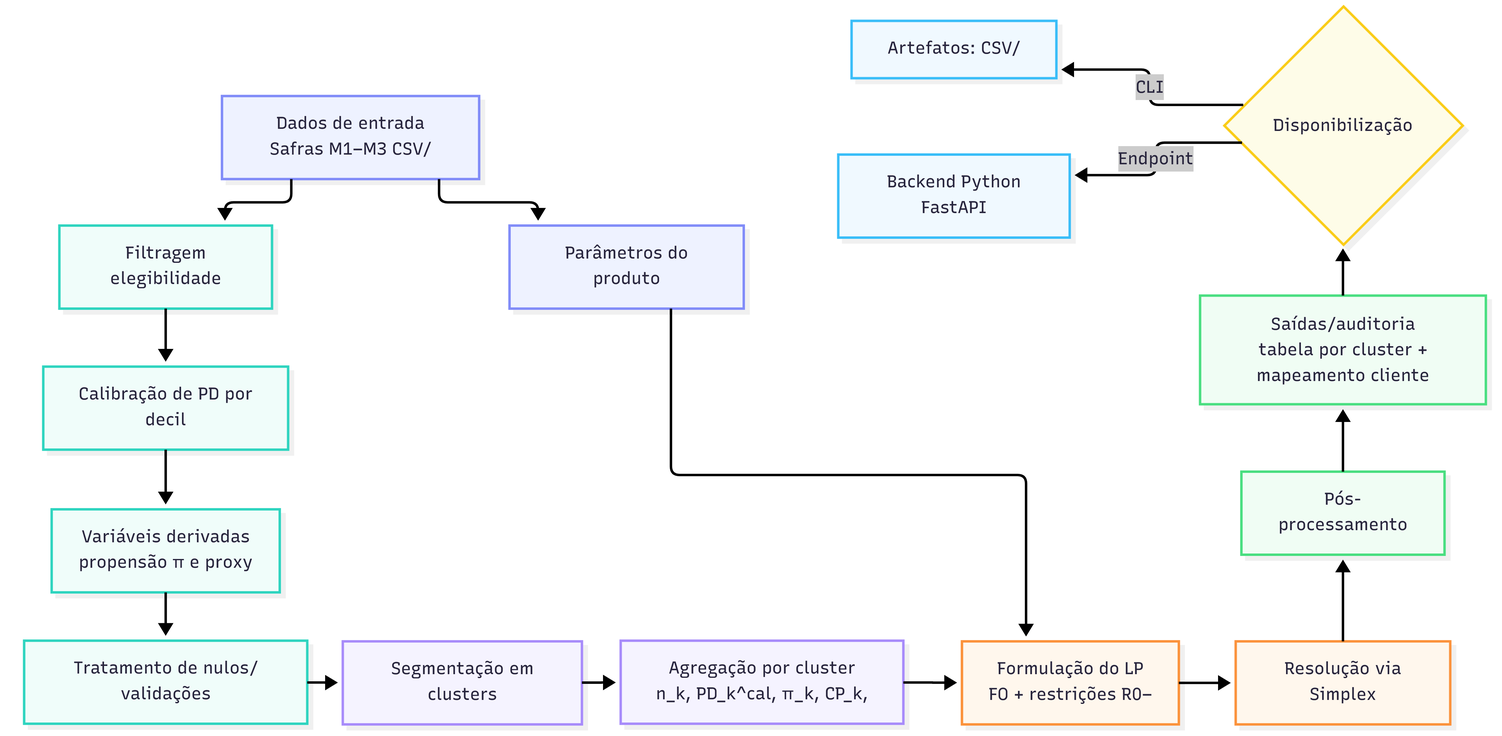
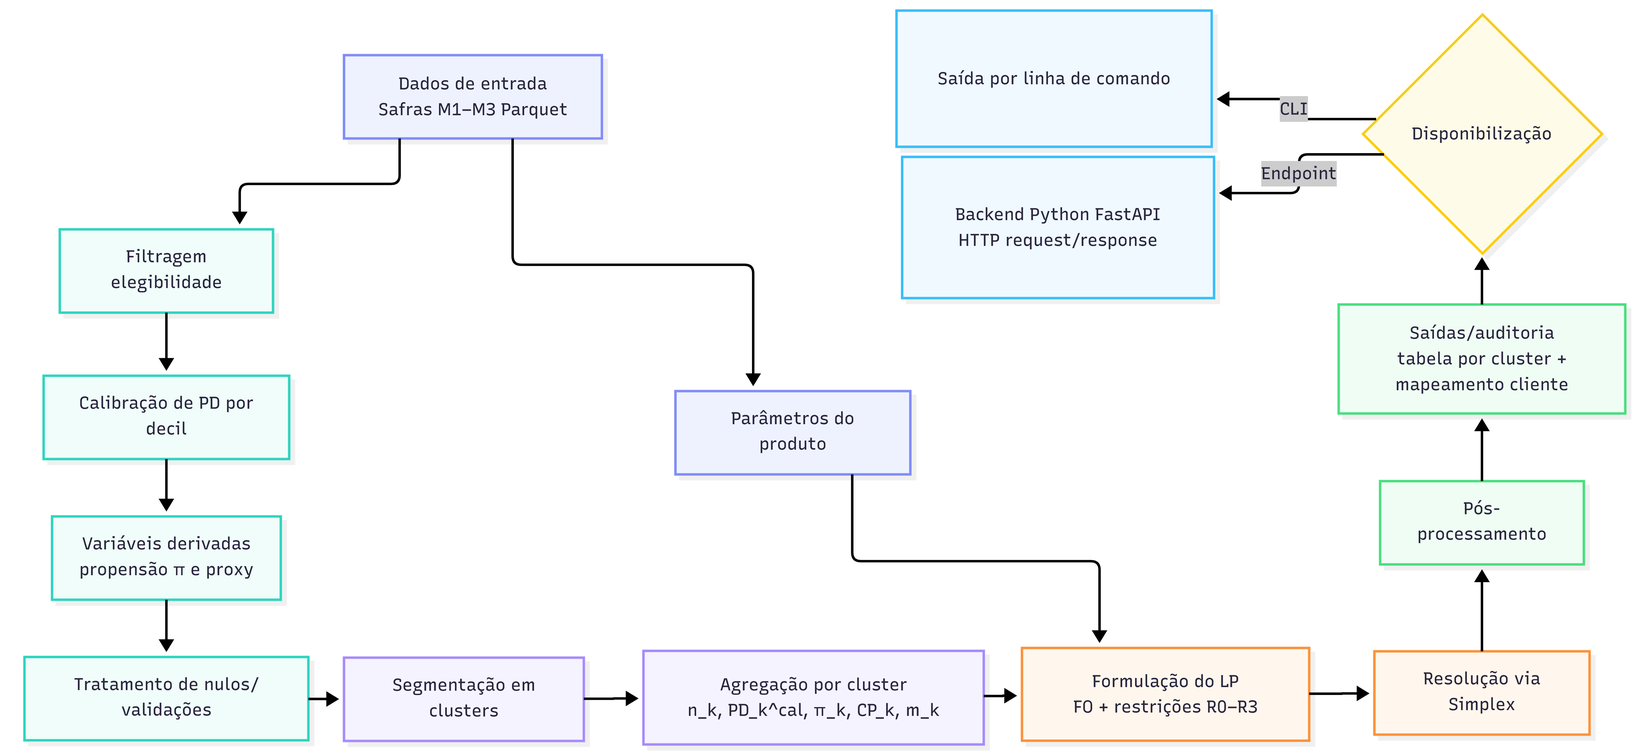
docs: article corrections

diff --git a/artefatos/artigo.md b/artefatos/artigo.md
@@ -1,12 +1,14 @@
-# [Título do Artigo]
+# Otimização de limites de crédito pré-aprovados via segmentação e Programação Linear
 
-**[Nome Autor 1], [Nome Autor 2], [Nome Autor 3], ...**
+**Autores:** Diego Figueiredo Silva, Lucas Garcia Rodrigues Lopes, Luiz Gustavo Borges Oliveira, Maria Clara Oliveira Santos, Rebeca Namura Sbroglio, Richard Dias Alves e Teodoro Borges de Carvalho Neira
 
-[Instituição], [Cidade], [Estado], [País]
+**Instituição:** Inteli
 
-[email@instituicao.edu.br]
+**Curso:** Ciência da Computação
 
----
+**Professor Orientador:** Tomaz Mikio Sasaki
+
+**Data:** 04/2026
 
 ## RESUMO
 
@@ -24,11 +26,13 @@ No contexto brasileiro, indicadores públicos mostram que a inadimplência segue
 
 Este trabalho propõe um pipeline reprodutível para definição de limites de crédito pré-aprovados a partir de dados históricos. Nele, clientes elegíveis são segmentados em perfis relativamente homogêneos e, em seguida, formula-se um problema de Programação Linear para maximizar o retorno líquido esperado, sujeito a restrições de risco, capacidade de pagamento e limites operacionais. O problema é resolvido por uma implementação própria do método Simplex e os resultados podem ser disponibilizados tanto via execução local quanto por meio de um backend em Python (FastAPI), viabilizando integração com sistemas internos.
 
-A escolha dessa abordagem se justifica por três motivos. Primeiro, a segmentação por perfis reduz a heterogeneidade e torna o problema tratável em larga escala, mantendo parâmetros econômicos interpretáveis por grupo. Segundo, a Programação Linear explicita de maneira transparente as premissas, a função objetivo e as restrições de negócio, o que facilita governança e auditoria. Por fim, a disponibilização operacional do pipeline aproxima o método do uso recorrente, permitindo monitoramento e ajustes conforme novas safras e parâmetros do produto se tornam disponíveis.
+A escolha dessa abordagem é motivada diretamente pelo contexto operacional do parceiro, que precisa definir limites pré-aprovados em larga escala com (i) restrições prudenciais explícitas (teto de risco agregado e alavancagem por capacidade de pagamento), (ii) limites operacionais por oferta e (iii) rastreabilidade/auditabilidade das decisões. Além disso, o parceiro já possui uma política vigente de oferta, o que permite avaliar ganhos de retorno e controle de risco comparando as recomendações do modelo com o baseline observado (campo limite_ofertado). Por fim, a disponibilização do pipeline em formato executável e integrável facilita sua incorporação em rotinas internas de parametrização e monitoramento.
 
 ## 2. MATERIAIS E MÉTODOS
 
-Esta seção descreve o _pipeline_ metodologico adotado no estudo, desde a caracterização dos dados de entrada até a definição do modelo de otimização e sua resolução. O fluxo seguido inclui a preparação e transformação dos dados, a segmentação dos clientes em perfis homogêneos, a formulação do problema de programação linear e a implementação do algoritmo de solução. Por fim, são detalhadas as ferramentas e tecnologias utilizadas para garantir a reprodutibilidade do processo.
+Esta seção descreve o _pipeline_ metodológico adotado no estudo, desde a caracterização dos dados de entrada até a definição do modelo de otimização e sua resolução. O fluxo seguido inclui a preparação e transformação dos dados, a segmentação dos clientes em perfis homogêneos, a formulação do problema de programação linear e a implementação do algoritmo de solução. Por fim, são detalhadas as ferramentas e tecnologias utilizadas para garantir a reprodutibilidade do processo.
+
+A Figura 1 sintetiza o fluxo do pipeline metodológico adotado, destacando as etapas de preparação e validação da base elegível, segmentação dos clientes em perfis homogêneos e, por fim, a formulação e resolução do problema de Programação Linear para recomendar limites por cluster sob restrições de risco e capacidade.
 
 **Figura 1 — Fluxo do pipeline metodológico**
 
@@ -38,7 +42,7 @@ Esta seção descreve o _pipeline_ metodologico adotado no estudo, desde a carac
 
 ### 2.1 Dados utilizados
 
-Os dados foram fornecidos pelo parceiro de projeto em três tabelas correspondentes a safras temporais (M1, M2, e M3), contendo clientes correntistas com variáveis de perfil, risco capacidade de pagamento e comportamento. A base total tem cerca de 15 milhões de clientes por safra, das quais uma fração é elegível ao produto e segue para a etapa de otimização. A Tabela 1 resume as variáveis utilizadas diretamente no modelo e seu papel na formulação; as demais colunas são usadas apenas para controle a análises descritivas. As restrições e o papel na função associadas a essas variáveis são detalhadas na Seção 2.3.
+Os dados foram fornecidos pelo parceiro de projeto em três tabelas correspondentes a safras temporais (M1, M2, e M3), contendo clientes correntistas com variáveis de perfil, risco, capacidade de pagamento e comportamento. A base total tem cerca de 15 milhões de clientes por safra, das quais uma fração é elegível ao produto e segue para a etapa de otimização. A Tabela 1 resume as variáveis utilizadas diretamente no modelo e seu papel na formulação; as demais colunas são usadas apenas para controle a análises descritivas. As restrições e o papel na função associadas a essas variáveis são detalhadas na Seção 2.3.
 
 **Tabela 1 — Variáveis fornecidas pelo parceiro (estatísticas da safra M1)**
 
@@ -101,7 +105,7 @@ CP_i \;=\;
 0{,}30 \cdot \texttt{renda\_estimada}_i, & \text{caso contrário.}
 \end{cases}
 $$
-A constante 0,30 reflete uma regra conservadora de comprometimento de renda (fração da renda destinada ao pagamento), permitindo que a restrição de capacidade permaneça ativa mesmo quando a medida direta é ausente.
+A constante 0,30 reflete uma regra conservadora de comprometimento de renda (fração da renda destinada ao pagamento), permitindo que a restrição de capacidade permaneça ativa mesmo quando a medida direta é ausente. A constante 0,30 é uma **premissa do grupo** (regra conservadora de comprometimento de renda) adotada para manter a restrição de capacidade ativa quando `capacidade_pagamento` é ausente.
 
 **Tratamento de valores ausentes e preparação para segmentação.** Após a criação de `pd_calibrada`, $\pi_i$ e $CP_i$, valores ausentes residuais nas variáveis numéricas de segmentação são imputados por estatísticas robustas (por exemplo, mediana), reduzindo sensibilidade a caudas e outliers. Como a etapa de segmentação foi desenhada para produzir clusters homogêneos nas variáveis consumidas pelo PL, o pré-processamento evita transformações que distorçam interpretação econômica. Em particular, quando a segmentação utiliza modelos baseados em árvore (CART), não é necessária padronização das variáveis; já em abordagens baseadas em distância (como K-Means, usadas em protótipos anteriores), aplica-se padronização (z-score) e codificação apropriada de variáveis categóricas (por exemplo, `fx_idade`).
 
@@ -111,7 +115,7 @@ Como resultado do pré-processamento, a base elegível passa a conter as variáv
 
 Esta seção apresenta a formulação matemática do problema de definição de limites de crédito pré-aprovados. Dado um conjunto de clientes elegíveis, agrupados por $K$ _clusters_ relativamente homogêneos, busca-se determinar o limite $L_k$ a ser ofertado a cada cluster $k$ de modo a maximizar o retorno líquido esperado da carteira. Opta-se por uma formulação de Programação Linear (LP) por sua interpretabilidade em larga escala, uma vez que a decisão deve ser tomada simultaneamente para múltiplos perfis de clientes, além de ser um requisito mapeado pelo parceiro. 
 
-Para preservar a linearidade do modelo, grandezas de risco e comportamento (como probabilidade de inadimplência ($PD_k$), propensão à contratação ($\pi$_k) e parâmetros operacionais do produto) são tratadas como parâmetros estimados na etapa de pré-processamento, enquanto os limites $L_k$ constituem as variáveis de decisão. A função objetivo considera a receita esperada de _interchange_ descontada da perda esperada por inadimplência, e as restrições incorporam políticas prudenciais e operacionais, como teto de risco agregado, alavancagem em relação à capacidade  d epagamento e limites máximos por oferta.
+Para preservar a linearidade do modelo, grandezas de risco e comportamento (como probabilidade de inadimplência ($PD_k$), propensão à contratação ($\pi$_k) e parâmetros operacionais do produto) são tratadas como parâmetros estimados na etapa de pré-processamento, enquanto os limites $L_k$ constituem as variáveis de decisão. A função objetivo considera a receita esperada de _interchange_ descontada da perda esperada por inadimplência, e as restrições incorporam políticas prudenciais e operacionais, como teto de risco agregado, alavancagem em relação à capacidade  de pagamento e limites máximos por oferta.
 
 A Tabela 2 resume os principais parâmetros utilizados na formulação, incluindo grandezas estimadas a partir dos dados (por exemplo, $PD_k$, $\pi_k$, $CP_k$) e constantes operacionais fornecidas pelo parceiro (por exemplo, taxa de _interchange_ $t$, horizonte de receita $T$ e $\mathrm{LGD}$). Esses parâmetros são calculados na etapa de pré-processamento e, em seguida, tratados como constantes no problema de otimização, garantindo que a função objetivo e as restrições permaneçam lineares nas variáveis de decisão $L_k$.
 
@@ -119,25 +123,21 @@ A Tabela 2 resume os principais parâmetros utilizados na formulação, incluind
 
 | Símbolo | Descrição | Unidade / Domínio | Como é obtido (no pipeline) | Fonte |
 |---|---|---|---|---|
-| $K$ | Número de clusters de clientes elegíveis | inteiro, $K \ge 100$ | Definido na etapa de clusterização | Pré-processamento |
+| $K$ | Número de clusters de clientes elegíveis | inteiro, $K \ge 100$ |  Definido pelos hiperparâmetros do CART | Pré-processamento |
 | $k$ | Índice do cluster | $k \in \{1,\dots,K\}$ | — | — |
 | $n_k$ | Número de clientes no cluster $k$ | inteiro positivo | Contagem de observações no cluster | Dados + clusterização |
-| $PD_k$ | Probabilidade de default representativa do cluster $k$ | $[0,1]$ | Média de `pd_produto` dentro do cluster $k$ | Dados (scoring interno) |
+| $PD_k$ | Probabilidade de default representativa do cluster $k$ | $[0,1]$ | Média de `pd_calibrada` dentro do cluster $k$ | Dados (scoring interno) |
 | $\pi_k$ | Propensão à contratação (normalizada) do cluster $k$ | $[0,1]$ | Normaliza `score_propensao_contrato` via min–max e tira média no cluster | Dados + normalização |
-| $CP_k$ | Capacidade de pagamento representativa do cluster $k$ | R\$ | Percentil 5 de `capacidade_pagamento` no cluster; quando nulo, proxy via `renda_estimada \times 0{,}30` | Dados + regra de proxy |
-| $m_k$ | Multiplicador de alavancagem permitido no cluster $k$ | ex.: $[0{,}20,\,0{,}45]$ | Mapeado por faixas do `score_credito_cross` (médio do cluster) | Política/heurística calibrada |
+| $CP_k$ | Capacidade de pagamento representativa do cluster $k$ | R\$ | Percentil 5 de `cp_proxy` no cluster, onde `cp_proxy = capacidade_pagamento` (quando disponível) e, caso contrário, `0,30 * renda estimada` | Dados + regra de proxy |
+| $m_k$ | Multiplicador de alavancagem permitido no cluster $k$ | ex.: $[0{,}3,\,1{,}8]$ Calculado por interpolação linear a partir de `score_credito_cross` médio do cluster | Política/heurística calibrada |
 | $t$ | Taxa de interchange mensal | adimensional | Constante | Parceiro / premissa |
 | $T$ | Horizonte de receita considerado | meses | Constante (ex.: $T=22$) | Parceiro / premissa |
 | $\bar{u}$ | Utilização média esperada do limite | $[0,1]$ | Constante (ex.: $\bar{u}=0{,}75$) | Parceiro / premissa |
 | $\mathrm{LGD}$ | Loss Given Default | $[0,1]$ | Constante (ex.: $\mathrm{LGD}=0{,}80$) | Parceiro / premissa |
-| $d(k)$ | Decil associado ao $PD_k$ (para calibração) | $\{1,\dots,10\}$ | Identifica o decil onde o $PD_k$ cai | Pré-processamento |
 | $\gamma_d$ | Fator de calibração da PD no decil $d$ | $>0$ | Razão empírica (ex.: baseada em `over30mob3` vs `pd_produto`) por decil | Estimado em análise histórica |
-| $PD_k^{cal}$ | PD calibrada do cluster $k$ | $[0,1]$ | $PD_k^{cal} = PD_k \cdot \gamma_{d(k)}$ | Derivado |
-| $\overline{PD}_{fin}^{atual}$ | Teto de risco financeiro da carteira (ponderado por exposição) | $[0,1]$ | Definido como benchmark/limite de política | Parceiro / política |
+| $\overline{PD}_{fin}^{atual}$ | Teto de risco financeiro da carteira (ponderado por exposição) | $[0,1]$ | Calculado como média de `pd_calibrada` na base elegível (`flag_filtros == 0`) |
 | $L^{max}$ | Limite máximo permitido por oferta | R\$ | Constante (ex.: $25.000$) | Política operacional |
 | $\alpha$  | Concentração máxima de exposição em um único cluster | $[0,1]$ | Constante (ex.: 5%) para as restrições | Política/prudencial |
-| $V^{min}$  | Piso de produção (volume total de limite ofertado) | R\$ | Constante para as restrições | Meta comercial |
-
 
 #### Função objetivo
 
@@ -148,20 +148,20 @@ $$
 \left[
 \underbrace{\pi_k \cdot T \cdot \bar{u} \cdot t \cdot L_k}_{\text{Receita esperada em }T\text{ meses}}
 \;-\;
-\underbrace{\pi_k \cdot PD_k^{cal} \cdot \mathrm{LGD} \cdot L_k}_{\text{Perda esperada por inadimplência}}
+\underbrace{\pi_k \cdot PD_k \cdot \mathrm{LGD} \cdot L_k}_{\text{Perda esperada por inadimplência}}
 \right].
 $$
 
 No primeiro termo, $\pi_k$ representa a probabilidade de contratação (ou propensão à conversão) do cluster $k$; $\bar{u}$ é a fração média esperada do limite efetivamente utilizada; $t$ é a taxa de _interchange_ aplicada sobre o volume transacionado; e $T$ acumula a receita ao longo do horizonte considerado. Assim, $T\cdot\bar{u}\cdot t\cdot L_k$ aproxima a receita total de _interchange_ por cliente (condicional ao cliente utilizar o produto), enquanto o fator $\pi_k$ pondera essa receita pela chance de contratação.
 
-No segundo termo, $PD_k^{cal}$ é a probabilidade calibrada de inadimplência associada ao cluster $k$ (obtida a partir do $PD_k$ e do fator $\gamma_{d(k)}$, quando aplicável), e $\mathrm{LGD}$ é a perda dada a inadimplência. A expressão $PD_k^{cal}\cdot \mathrm{LGD}\cdot L_k$ representa a perda esperada por cliente, e novamente é ponderada por $\pi_k$, refletindo que a perda só se materializa no subconjunto que efetivamente contrata o produto.
+No segundo termo, $PD_k$ é a probabilidade calibrada de inadimplência associada ao cluster $k$ (obtida a partir do $PD_k$ e do fator $\gamma_{d(k)}$, quando aplicável), e $\mathrm{LGD}$ é a perda dada a inadimplência. A expressão $PD_k\cdot \mathrm{LGD}\cdot L_k$ representa a perda esperada por cliente, e novamente é ponderada por $\pi_k$, refletindo que a perda só se materializa no subconjunto que efetivamente contrata o produto.
 
-Agrupando os termos constantes, pode-se reescrever a função objetivo como:
+FAgrupando os termos constantes, pode-se reescrever a função objetivo como:
 
 $$
 \max \sum_{k=1}^{K} n_k \cdot c_k \cdot L_k,
 \quad \text{onde}\quad
-c_k = \pi_k\cdot\left(T\cdot \bar{u}\cdot t - PD_k^{cal}\cdot \mathrm{LGD}\right).
+c_k = \pi_k\cdot\left(T\cdot \bar{u}\cdot t - PD_k\cdot \mathrm{LGD}\right).
 $$
 
 O coeficiente $c_k$ pode ser interpretado como o retorno líquido marginal esperado por unidade monetária de limite ofertado ao cluster $k$. Como todos os fatores em $c_k$ são parâmetros, a função objetivo é linear em $L_k$, caracterizando um problema de Programação Linear (LP).
@@ -177,13 +177,13 @@ $$
 
 **(R1) Teto de inadimplência financeira (risco ponderado por exposição).** Para controlar o risco agregado da carteira em termos financeiros, limita-se a inadimplência média ponderada pela exposição. Na forma de razão, tem-se:
 $$
-\frac{\sum_{k=1}^{K} n_k \cdot PD_k^{cal} \cdot L_k}{\sum_{k=1}^{K} n_k \cdot L_k}
+\frac{\sum_{k=1}^{K} n_k \cdot PD_k \cdot L_k}{\sum_{k=1}^{K} n_k \cdot L_k}
 \le \overline{PD}_{fin}^{atual}.
 $$
 
 Para manter o modelo linear, a restrição é escrita na forma equivalente (multiplicando ambos os lados por $\sum_{k} n_k L_k$, que é não negativa e estritamente positiva em qualquer solução não-trivial):
 $$
-\sum_{k=1}^{K} n_k \cdot PD_k^{cal} \cdot L_k
+\sum_{k=1}^{K} n_k \cdot PD_k \cdot L_k
 \le
 \overline{PD}_{fin}^{atual}\cdot \sum_{k=1}^{K} n_k \cdot L_k.
 $$
@@ -201,23 +201,11 @@ $$
 L_k \le L^{max},\quad \forall k.
 $$
 
-**(R4) Concentração máxima por cluster (diversificação).** Para evitar que a exposição total se concentre excessivamente em um único perfil, limita-se a participação de cada cluster na exposição total:
-$$
-n_k \cdot L_k \le \alpha \cdot \sum_{j=1}^{K} n_j \cdot L_j,\quad \forall k.
-$$
-Como $\alpha$ é constante, essa restrição é linear e induz diversificação, reduzindo sensibilidade a erros de estimação em um único cluster.
-
-**(R5) Piso de produção (meta comercial).** Para garantir um nível mínimo de volume de limites ofertados (quando aplicável), impõe-se:
-$$
-\sum_{k=1}^{K} n_k \cdot L_k \ge V^{min}.
-$$
-Quando $V^{min}=0$, a restrição é inativa; valores positivos representam metas comerciais definidas pelo parceiro.
-
 ### 2.4 Implementação do algoritmo
 
 A implementação foi desenvolvida em Python e organizada como um _pipeline_ executável para: (i) ler uma base de clientes e parâmetros do produto, (ii) segmentar clientes elegíveis em grupos relativamente homogêneos, (iii) montar um Problema de Programação Linear (PL) para definição de limites por grupo e (iv) resolver o PL via algoritmo Simplex. Os resultados são persistidos em formato tabular para auditoria e reprodutibilidade.
 
-**Entrada e parâmetros.** O pipeline recebe (i) um arquivo CSV com registros de clientes e (ii) um arquivo JSON contendo constantes operacionais do produto (por exemplo, taxa de _interchange_ $t$, horizonte $T$, utilização média $\bar{u}$, $\mathrm{LGD}$ e teto $L^{max}$). A partir da base elegível, calcula-se também o benchmark de risco agregado $\overline{PD}_{fin}^{atual}$, utilizado na restrição de risco da carteira.
+**Entrada e parâmetros.** O pipeline recebe (i) um arquivo Parquet com registros de clientes e (ii) um arquivo JSON contendo constantes operacionais do produto (por exemplo, taxa de _interchange_ $t$, horizonte $T$, utilização média $\bar{u}$, $\mathrm{LGD}$ e teto $L^{max}$). A partir da base elegível, calcula-se também o benchmark de risco agregado $\overline{PD}_{fin}^{atual}$, utilizado na restrição de risco da carteira.
 
 **Etapa 1 — Preparação dos dados (visão geral).** As etapas de limpeza, transformação e criação de variáveis derivadas (como a propensão normalizada $\pi$ e a proxy de capacidade de pagamento) seguem o pré-processamento descrito na Seção 2.2. Nesta subseção, o foco é a integração dessas saídas na etapa prescritiva (otimização).
 
@@ -234,11 +222,27 @@ Como saída, obtém-se uma tabela agregada por cluster que concentra todos os pa
 $$
 c_k = n_k \cdot \pi_k \cdot \left(\bar{u}\cdot t \cdot T - PD_k \cdot \mathrm{LGD}\right),
 $$
-e as restrições incluem, em particular: (i) teto de risco financeiro agregado (comparado ao benchmark $\overline{PD}_{fin}^{atual}$), (ii) limite por capacidade de pagamento com alavancagem $L_k \le m_k\cdot CP_k$ e (iii) teto operacional $L_k \le L^{max}$.
+onde $PD_k$ é a PD calibrada média do cluster (média de `pd_calibrada`). As restrições incluem, em particular: (i) teto de risco financeiro agregado (comparado ao benchmark $\overline{PD}_{fin}^{atual}$, calculado como a média de `pd_calibrada` na base elegível), (ii) limite por capacidade de pagamento com alavancagem $L_k \le m_k\cdot CP_k$ e (iii) teto operacional $L_k \le L^{max}$.
 
-**Etapa 4 — Resolução via Simplex.** O PL é resolvido por uma implementação própria do método Simplex. O algoritmo constrói o tableau inicial com variáveis de folga, itera selecionando variável entrante e sainte (com regra de Bland para evitar ciclagem), realiza pivoteamentos e encerra quando não há melhoria na função objetivo ou quando identifica casos especiais (como problema ilimitado). Ao final, retorna o vetor ótimo $L_k^*$, o valor ótimo $Z^*$ e o status da solução.
+**Etapa 4 — Resolução via Simplex.** O PL é resolvido por uma implementação própria do método Simplex. O algoritmo constrói o tableau inicial com variáveis de folga, itera selecionando variável entrante e variável sainte (com regra de Bland para evitar ciclagem), realiza pivoteamentos e encerra quando não há melhoria na função objetivo ou quando identifica casos especiais (como problema ilimitado). Ao final, retorna o vetor ótimo $L_k^*$, o valor ótimo $Z^*$ e o status da solução.
 
-**Pós-otimização e saída.** Para aderência operacional, os limites contínuos retornados são pós-processados (por exemplo, aplicação de piso mínimo para “oferta ativa” e arredondamento para múltiplos predefinidos). O resultado final é reportado por cluster e pode ser propagado para o nível individual via mapeamento do cliente ao seu cluster.
+**Validação numérica com solver externo.** Para verificar a correção da implementação própria do Simplex, o mesmo problema de Programação Linear foi resolvido também com um solver consolidado via biblioteca PuLP (solver CBC como padrão). A validação consistiu em executar ambos os resolvedores sobre as mesmas instâncias e comparar (i) o status da solução, (ii) o valor da função objetivo e (iii) o vetor de decisão $L_k$, aceitando apenas discrepâncias residuais compatíveis com tolerâncias numéricas. Essa checagem funciona como teste de sanidade durante o desenvolvimento e aumenta a confiabilidade da solução antes do uso operacional do pipeline.
+
+**Pós-otimização e saída.** Para aderência operacional, os limites contínuos retornados pelo Simplex são pós-processados antes da comunicação do resultado. Em particular, aplica-se um critério de “oferta ativa” e uma discretização simples, compatível com a prática de limites em faixas: para cada cluster $k$, define-se o limite final $L_k^{final}$ como
+$$
+L_k^{final} \;=\;
+\begin{cases}
+50 \cdot \mathrm{round}\!\left(\dfrac{L_k^*}{50}\right), & \text{se } L_k^* \ge 200 \\[6pt]
+0, & \text{se } L_k^* < 200,
+\end{cases}
+$$
+isto é, limites abaixo de R\$ 200 são interpretados como “sem oferta”, e os demais são arredondados ao múltiplo de R\$ 50 mais próximo. O resultado final é então reportado por cluster e pode ser propagado ao nível individual via mapeamento do cliente ao seu respectivo `cluster_id`.
+
+Além do ajuste operacional, realiza-se a **verificação em pós-otimização** da diretriz de diversificação (R4), usando o parâmetro $\alpha$. Define-se a exposição total resultante como $E = \sum_{j=1}^{K} n_j \cdot L_j^{final}$ e checa-se, para cada cluster, se sua participação respeita
+$$
+n_k \cdot L_k^{final} \le \alpha \cdot E,\quad \forall k.
+$$
+Caso a condição seja violada para algum cluster, a violação é sinalizada para revisão de parâmetros (por exemplo, ajuste de $\alpha$ e/ou de regras operacionais) e reexecução do pipeline, mantendo a etapa de otimização como um PL estritamente linear.
 
 **Acesso operacional (CLI e endpoint).** Além da execução via linha de comando para fins de reprodutibilidade, o mesmo pipeline pode ser encapsulado em um serviço de backend e disponibilizado por meio de um endpoint HTTP. Nesse formato, uma requisição informa a referência aos dados e os parâmetros do produto, e a resposta retorna o status da otimização, métricas-resumo (por exemplo, $Z^*$ e restrições ativas) e a recomendação de limites por cluster (ou por cliente, após o mapeamento), viabilizando integração com sistemas internos e automação do processo decisório.
 
@@ -249,9 +253,10 @@ A solução foi desenvolvida com foco em reprodutibilidade e execução em ambie
 **Linguagem e ambiente.** A implementação é inteiramente em Python, executável via linha de comando. A configuração de parâmetros operacionais do produto (por exemplo, $t$, $\bar{u}$, $T$, $\mathrm{LGD}$ e $L^{max}$) é externalizada em arquivo JSON, permitindo reproduzir cenários sem alteração de código.
 
 **Bibliotecas principais (pipeline de otimização).**
-- **pandas:** leitura/escrita de dados tabulares (CSV) e agregações por cluster para obtenção de $n_k$, $PD_k$, $\pi_k$ e $CP_k$.
+- **pandas:** leitura/escrita de dados tabulares (Parquet) e agregações por cluster para obtenção de $n_k$, $PD_k$, $\pi_k$ e $CP_k$.
 - **NumPy:** operações numéricas e estatísticas (por exemplo, percentis e truncamentos) usadas em variáveis derivadas e agregações.
 - **scikit-learn:** modelos e rotinas de pré-processamento utilizados na etapa de segmentação (por exemplo, clusterização e transformações como imputação, padronização e codificação _one-hot_ quando aplicável).
+- **PuLP (CBC):** utilizado como solver externo para validação cruzada das soluções do PL, permitindo comparar resultados com a implementação própria do Simplex.
 
 **Implementação do Simplex.** O resolvedor do PL foi implementado do zero em Python (sem bibliotecas externas de otimização), permitindo maior transparência sobre as regras de entrada/saída da base, pivoteamento e critérios de parada, além de facilitar auditoria do processo de decisão.
 
